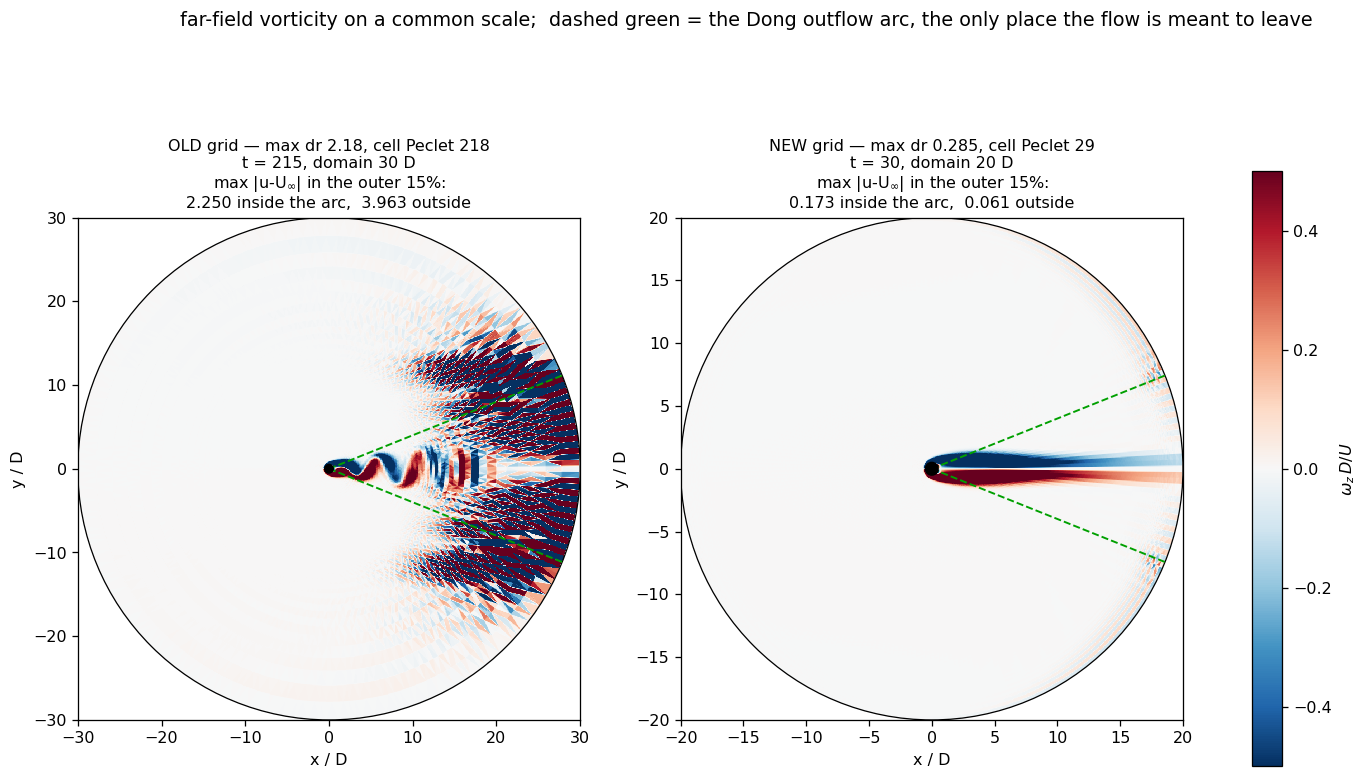
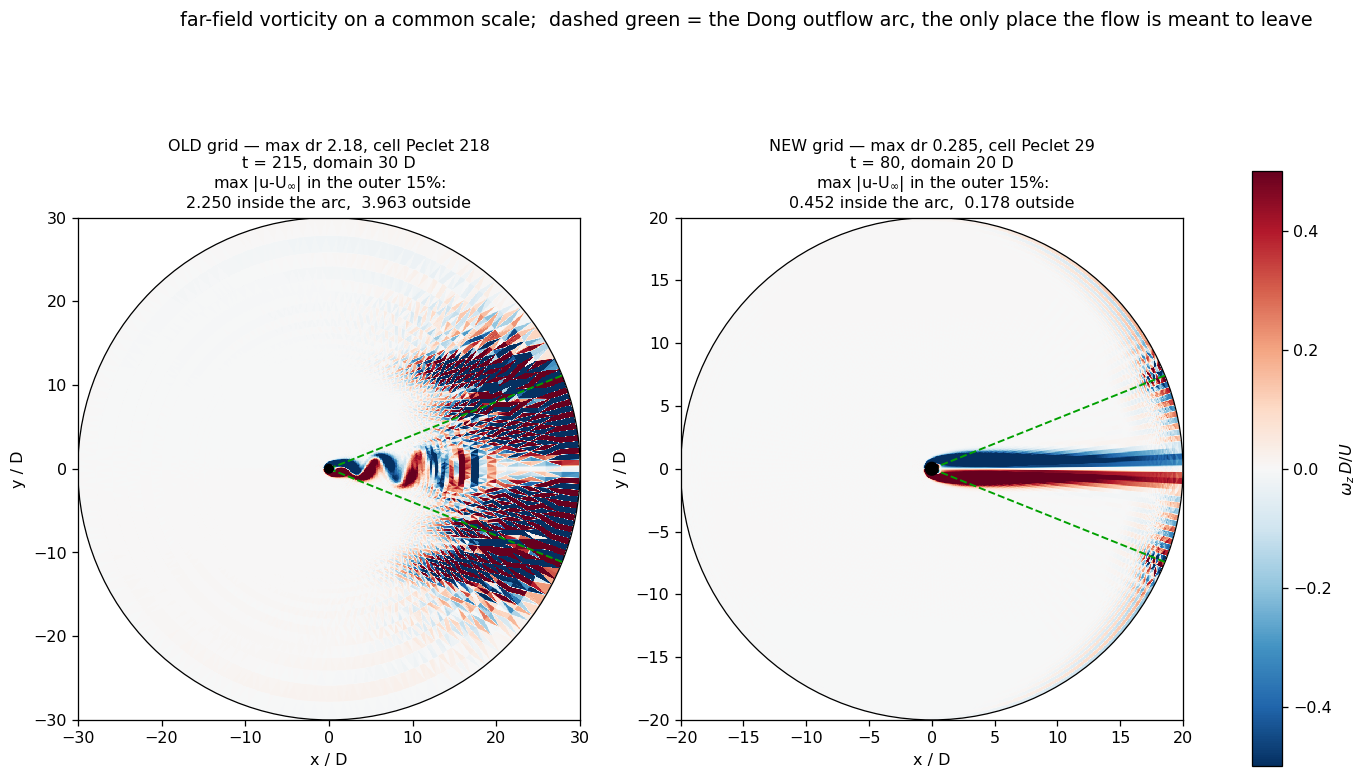
The far-wake stripes were the plot differentiating its own interpolant
plot_farfield.py interpolated u and v onto a fine Cartesian grid and then took
np.gradient of THAT. LinearNDInterpolator is piecewise linear, so its derivative
is piecewise CONSTANT and jumps at every mesh cell edge: differentiating it
paints one band per cell. The square's wake plateau ends at x = 14 and dx then
grows 0.15 -> 0.94, so bands appeared past x ~ 18 and widened downstream, which
is precisely what the figure showed.

The flow was smooth there the whole time. Native vorticity along y = 1 for
x > 16, differentiated on the mesh with the real metrics, has a node-to-node
alternating component of 1.7% of its own rms. Mean |d(omega)/d(pixel)| past
x = 18 drops from 0.00813 to 0.00295 when the order is corrected, and the
corrected panel shows coherent vortices continuing to x = 30 where the old one
showed stripes.

Two things I got wrong on the way here and should record. I asserted "it is the
grid, not the solver" without demonstrating it -- half right by luck, since it
is the grid's coarseness expressed through the PLOT rather than through the
solution. Then I proposed a 2dx flow oscillation and measured it: 7.9% of rms in
the clean region against 8.4% in the striped one, so that was not the mechanism
either. The pipeline test is what settled it, because it holds the data fixed
and changes only the order of the two operations.

plot_farfield.py now differentiates per block via d.gradient, which resolves
[…]

diff --git a/plot_utility/plot_vorticity_pipeline.py b/plot_utility/plot_vorticity_pipeline.py
@@ -1,0 +1,94 @@
+"""Where the vertical stripes in the far wake come from -- the plot, not the flow.
+
+`plot_farfield.py` interpolates u and v onto a fine Cartesian grid and then takes np.gradient of
+THAT to get vorticity. LinearNDInterpolator is piecewise linear, so its derivative is piecewise
+CONSTANT and jumps at every mesh cell edge. Differentiating it therefore paints one band per
+mesh cell, and since the square's wake plateau ends at x = 14 and dx then grows 0.15 -> 0.94,
+the bands appear past x ~ 18 and widen downstream. That is exactly what the figure shows.
+
+The flow is not doing it. Native vorticity along y = 1 for x > 16, computed on the mesh with
+the block metrics, has a node-to-node alternating component of 1.7% of its own rms -- smooth.
+
+The right order is: differentiate on the MESH, then interpolate the result for display.
+Interpolating a scalar for a picture is fine; differentiating an interpolant is not.
+"""
+import os as _os, sys as _sys
+_ROOT = _os.path.dirname(_os.path.dirname(_os.path.abspath(__file__)))
+if _ROOT not in _sys.path:
+    _sys.path.insert(0, _ROOT)
+_os.chdir(_ROOT)
+
+import numpy as np
+import matplotlib
+matplotlib.use("Agg")
+import matplotlib.pyplot as plt
+from scipy.interpolate import LinearNDInterpolator
+
+from src import checkpoint
+from square_cylinder_grid import square_domain, D, X_IN, X_OUT, Y_HALF
+
+TAG = _sys.argv[1] if len(_sys.argv) > 1 else "sqcyl_v3_forces"
+NX, NY = 1100, 620
+
+
+def native_vorticity(d, f, nb):
+    """omega_z per block, differentiated on the mesh with the real metrics."""
+    # pad_field reads across seams, so the gradient needs the field for EVERY block
+    U = {b: f["u"][b] for b in range(nb)}
+    V = {b: f["v"][b] for b in range(nb)}
+    return [d.gradient(b, V)[0] - d.gradient(b, U)[1] for b in range(nb)]
+
+
+def main():
+    f, meta = checkpoint.load_fields(f"results/fields/{TAG}.npz")
+    d, _ = square_domain(nz=4)
+    nb = len(d.blocks)
+    P = np.vstack([np.column_stack([b.x[:, :, 0].ravel(), b.y[:, :, 0].ravel()])
+                   for b in d.blocks])
+    U = np.concatenate([f["u"][b][:, :, 0].ravel() for b in range(nb)])
+    V = np.concatenate([f["v"][b][:, :, 0].ravel() for b in range(nb)])
+    W = np.concatenate([w[:, :, 0].ravel() for w in native_vorticity(d, f, nb)])
+
+    gx = np.linspace(X_IN, X_OUT, NX)
+    gy = np.linspace(-Y_HALF, Y_HALF, NY)
+    Xg, Yg = np.meshgrid(gx, gy)
+    ui = LinearNDInterpolator(P, U)(Xg, Yg)
+    vi = LinearNDInterpolator(P, V)(Xg, Yg)
+    hx, hy = gx[1] - gx[0], gy[1] - gy[0]
+    wz_bad = np.gradient(vi, hx, axis=1) - np.gradient(ui, hy, axis=0)
+    wz_good = LinearNDInterpolator(P, W)(Xg, Yg)
+    for a in (wz_bad, wz_good):
+        a[(np.abs(Xg) <= 0.5 * D) & (np.abs(Yg) <= 0.5 * D)] = np.nan
+
+    LIM = 1.0
+    fig, axes = plt.subplots(2, 1, figsize=(15, 9.2), sharex=True, sharey=True)
+    for ax, w, ttl in ((axes[0], wz_bad,
+                        "interpolate u and v, THEN differentiate  —  what plot_farfield.py did"),
+                       (axes[1], wz_good,
+                        "differentiate on the mesh, THEN interpolate  —  the same instant")):
+        im = ax.pcolormesh(Xg, Yg, w, cmap="RdBu_r", vmin=-LIM, vmax=LIM, shading="auto")
+        ax.add_patch(plt.Rectangle((-.5 * D, -.5 * D), D, D, color="k", zorder=9))
+        ax.axvline(14.0, color="#00a000", ls="--", lw=1.0)
+        ax.set_ylim(-6, 6); ax.set_aspect("equal"); ax.set_ylabel("y / D")
+        ax.set_title(ttl, fontsize=11)
+    axes[0].text(14.4, 4.6, "wake plateau ends here;\ndx grows 0.15 → 0.94",
+                 color="#00a000", fontsize=9)
+    axes[1].set_xlabel("x / D")
+    fig.colorbar(im, ax=axes, shrink=0.85, label=r"$\omega_z\,D/U$")
+    fig.suptitle(f"square cylinder {TAG}, t = {meta['time']:.0f} — the far-wake stripes are the "
+                 f"PLOT, not the flow", fontsize=12)
+    out = "figures/sqcyl_vorticity_pipeline.png"
+    fig.savefig(out, dpi=115, bbox_inches="tight")
+    print(f"  wrote {out}")
+
+    # the number behind the picture
+    far = (Xg > 18) & (np.abs(Yg) < 3)
+    for nm, w in (("interpolate-then-differentiate", wz_bad),
+                  ("differentiate-then-interpolate", wz_good)):
+        col = w[:, (gx > 18) & (gx < 30)]
+        alt = np.nanmean(np.abs(np.diff(col, axis=1)))
+        print(f"  {nm:<32} mean |d(omega)/d(pixel)| past x=18: {alt:.5f}")
+
+
+if __name__ == "__main__":
+    main()

diff --git a/plot_utility/plot_farfield.py b/plot_utility/plot_farfield.py
@@ -16,6 +16,10 @@ the edges:
   of its mass through the flanks -- shows up here as streamlines bending toward the sides long
   before they reach the body.
 
+VORTICITY IS COMPUTED ON THE MESH AND THEN INTERPOLATED, NOT THE OTHER WAY ROUND. See the
+comment at the wz assignment: differentiating the interpolant paints one band per mesh cell and
+produced far-wake stripes that were mistaken for a flow feature.
+
 VORTICITY NEEDS ITS OWN SCALE OUT HERE. The near wake reaches |omega| ~ 4 and the far wake is
 two orders below that, so the near-field colour limits render everything past x ~ 10 as blank
 white. The scale is set from a high PERCENTILE of the field rather than its maximum, so the
@@ -97,7 +101,20 @@ def main(tag="sqcyl_v3", nz=4):
     gu[m] = np.nan; gv[m] = np.nan
 
     spd = np.sqrt(gu**2 + gv**2)
-    wz = np.gradient(gv, gx, axis=1) - np.gradient(gu, gy, axis=0)
+    # VORTICITY IS DIFFERENTIATED ON THE MESH, NOT ON THE INTERPOLANT. Taking np.gradient of
+    # the interpolated velocity -- which this did -- differentiates a piecewise-LINEAR function,
+    # whose derivative is piecewise CONSTANT and jumps at every mesh cell edge. That paints one
+    # band per cell, so the square's far wake came out in vertical stripes past x = 18, exactly
+    # where the wake plateau ends and dx grows 0.15 -> 0.94. The flow was smooth there all
+    # along: native omega on y = 1 for x > 16 has a node-to-node alternating component of 1.7%
+    # of its own rms. Mean |d(omega)/d(pixel)| past x = 18 falls from 0.00813 to 0.00295 when
+    # the order is corrected. Interpolating a scalar for a picture is fine; differentiating an
+    # interpolant is not.
+    Ud = {b: f["u"][b] for b in range(len(d.blocks))}
+    Vd = {b: f["v"][b] for b in range(len(d.blocks))}
+    Wn = np.concatenate([(d.gradient(b, Vd)[0] - d.gradient(b, Ud)[1])[:, :, 0].ravel()
+                         for b in range(len(d.blocks))])
+    wz = LinearNDInterpolator(P, Wn)(GX, GY)
     lim = float(np.nanpercentile(np.abs(wz), 99.0))
 
     # THE FIGURE MUST FOLLOW THE DOMAIN. Both panels are aspect-equal, so a fixed figure size
